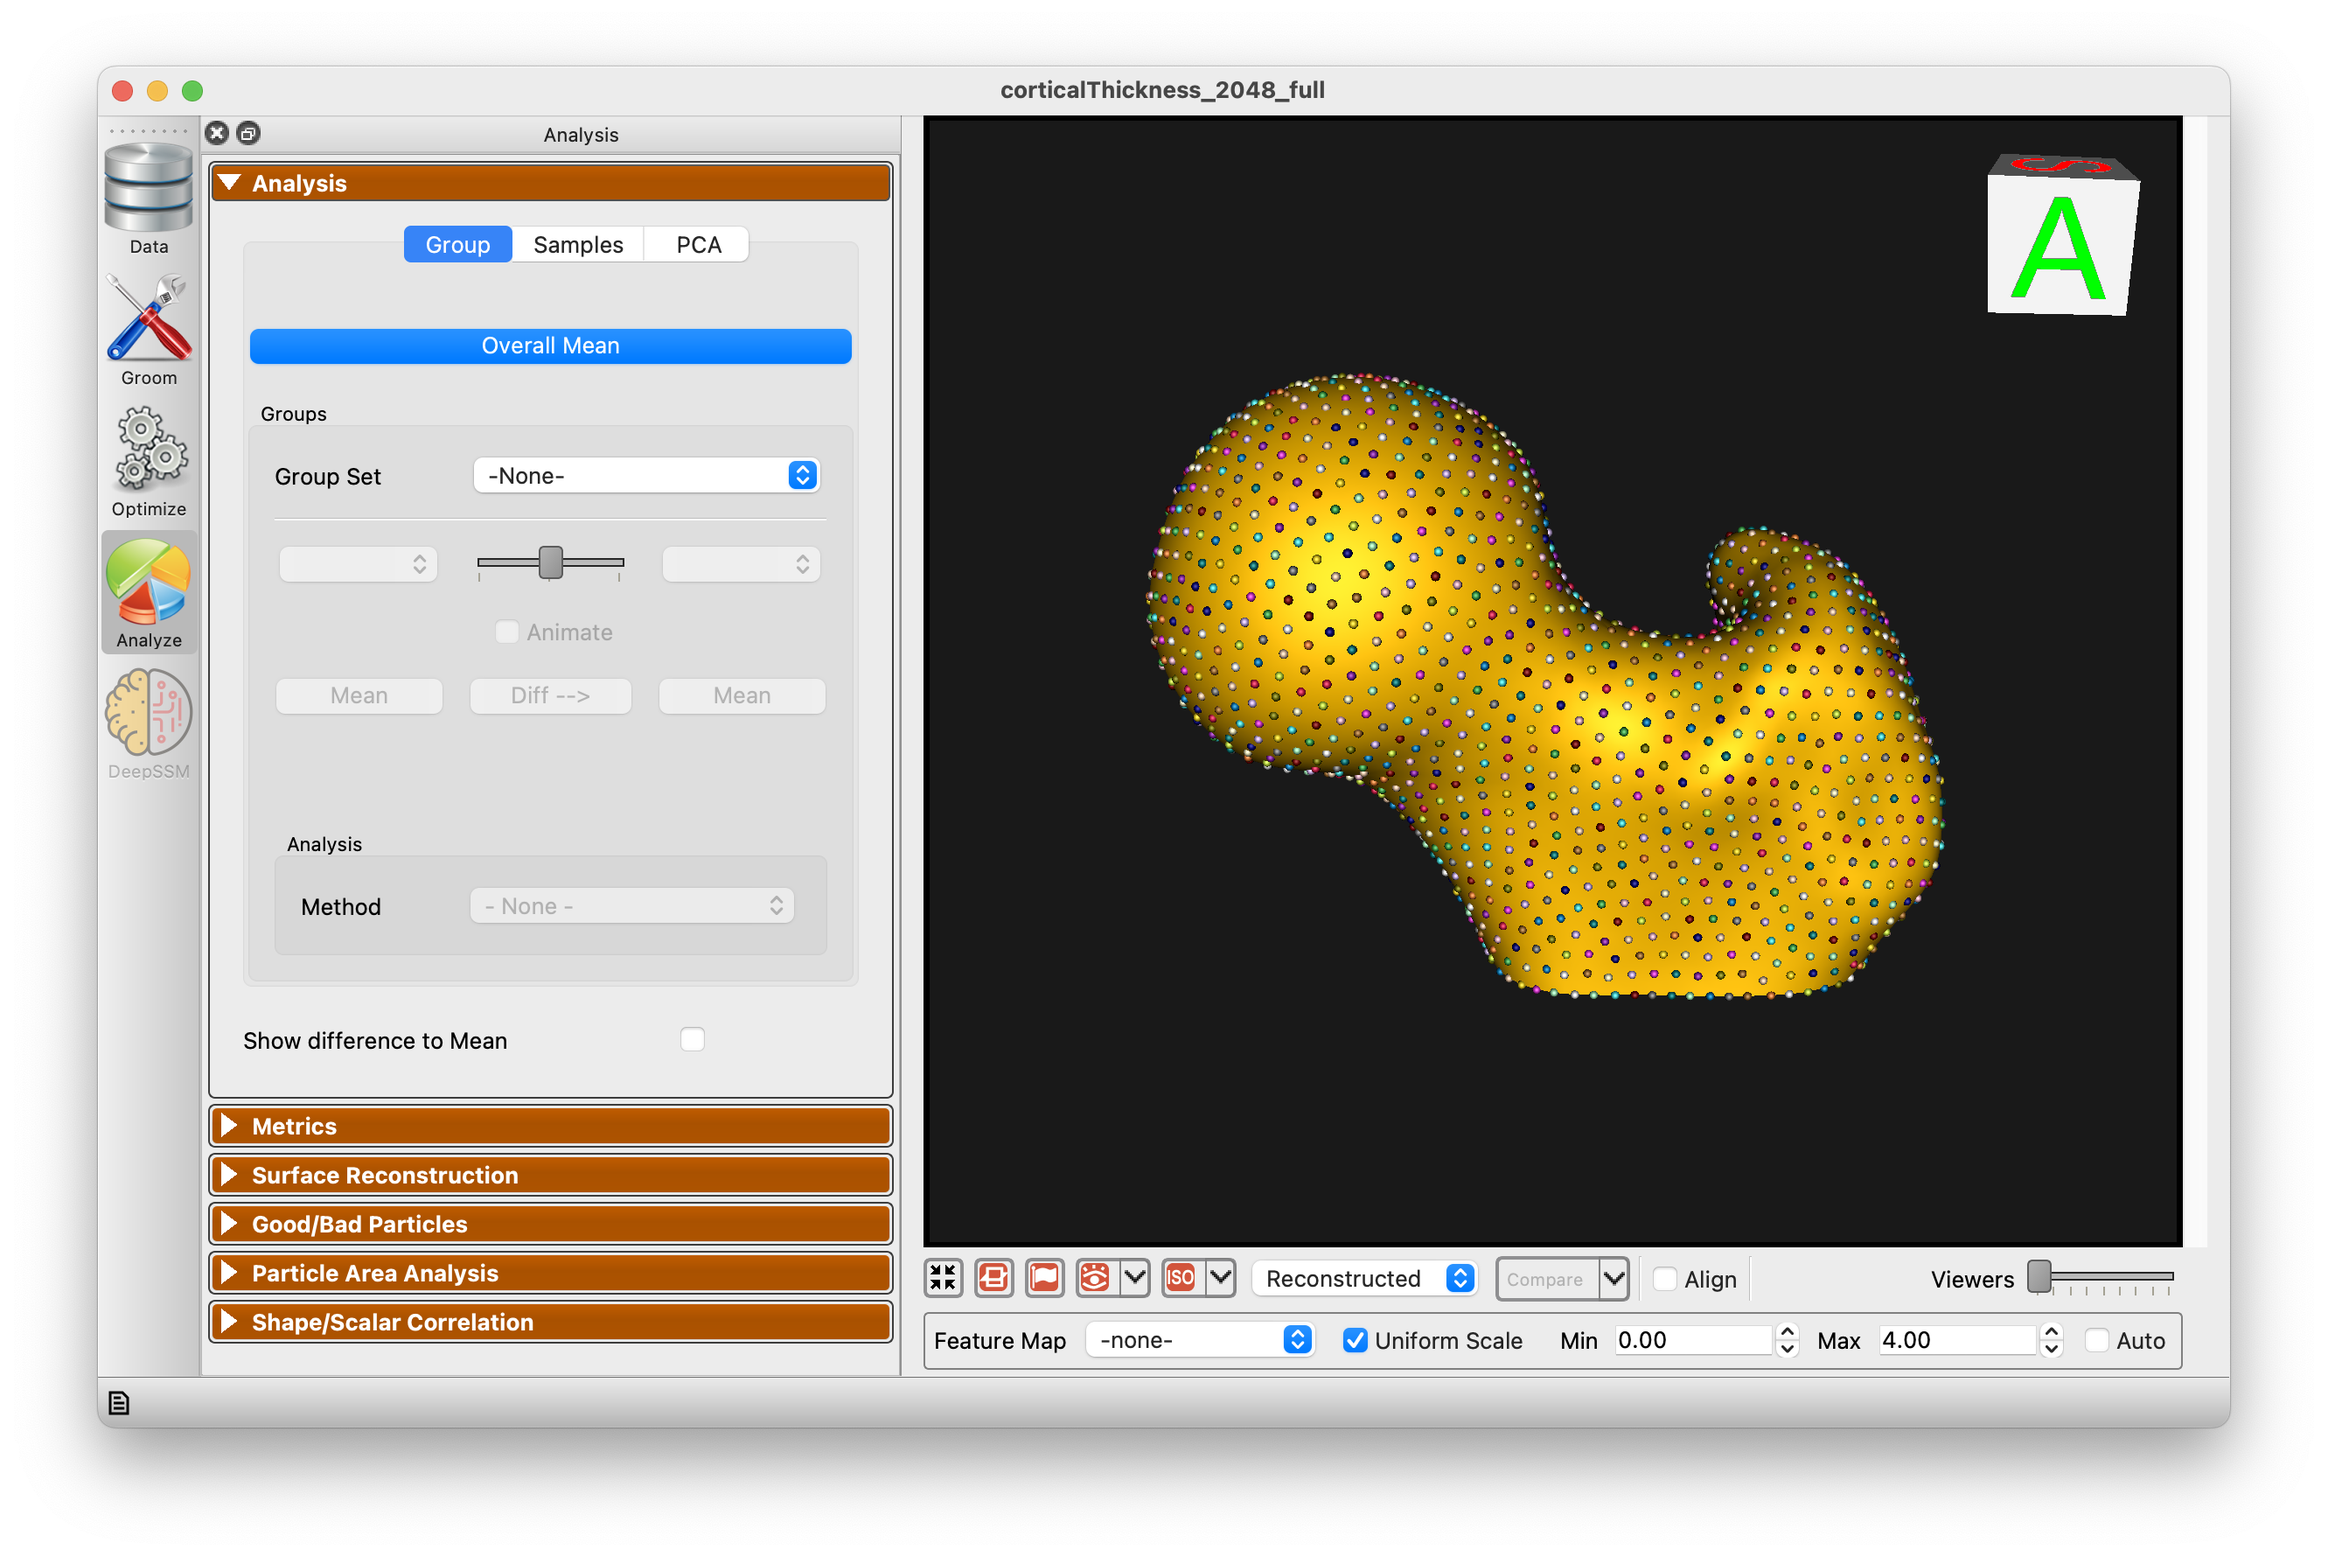
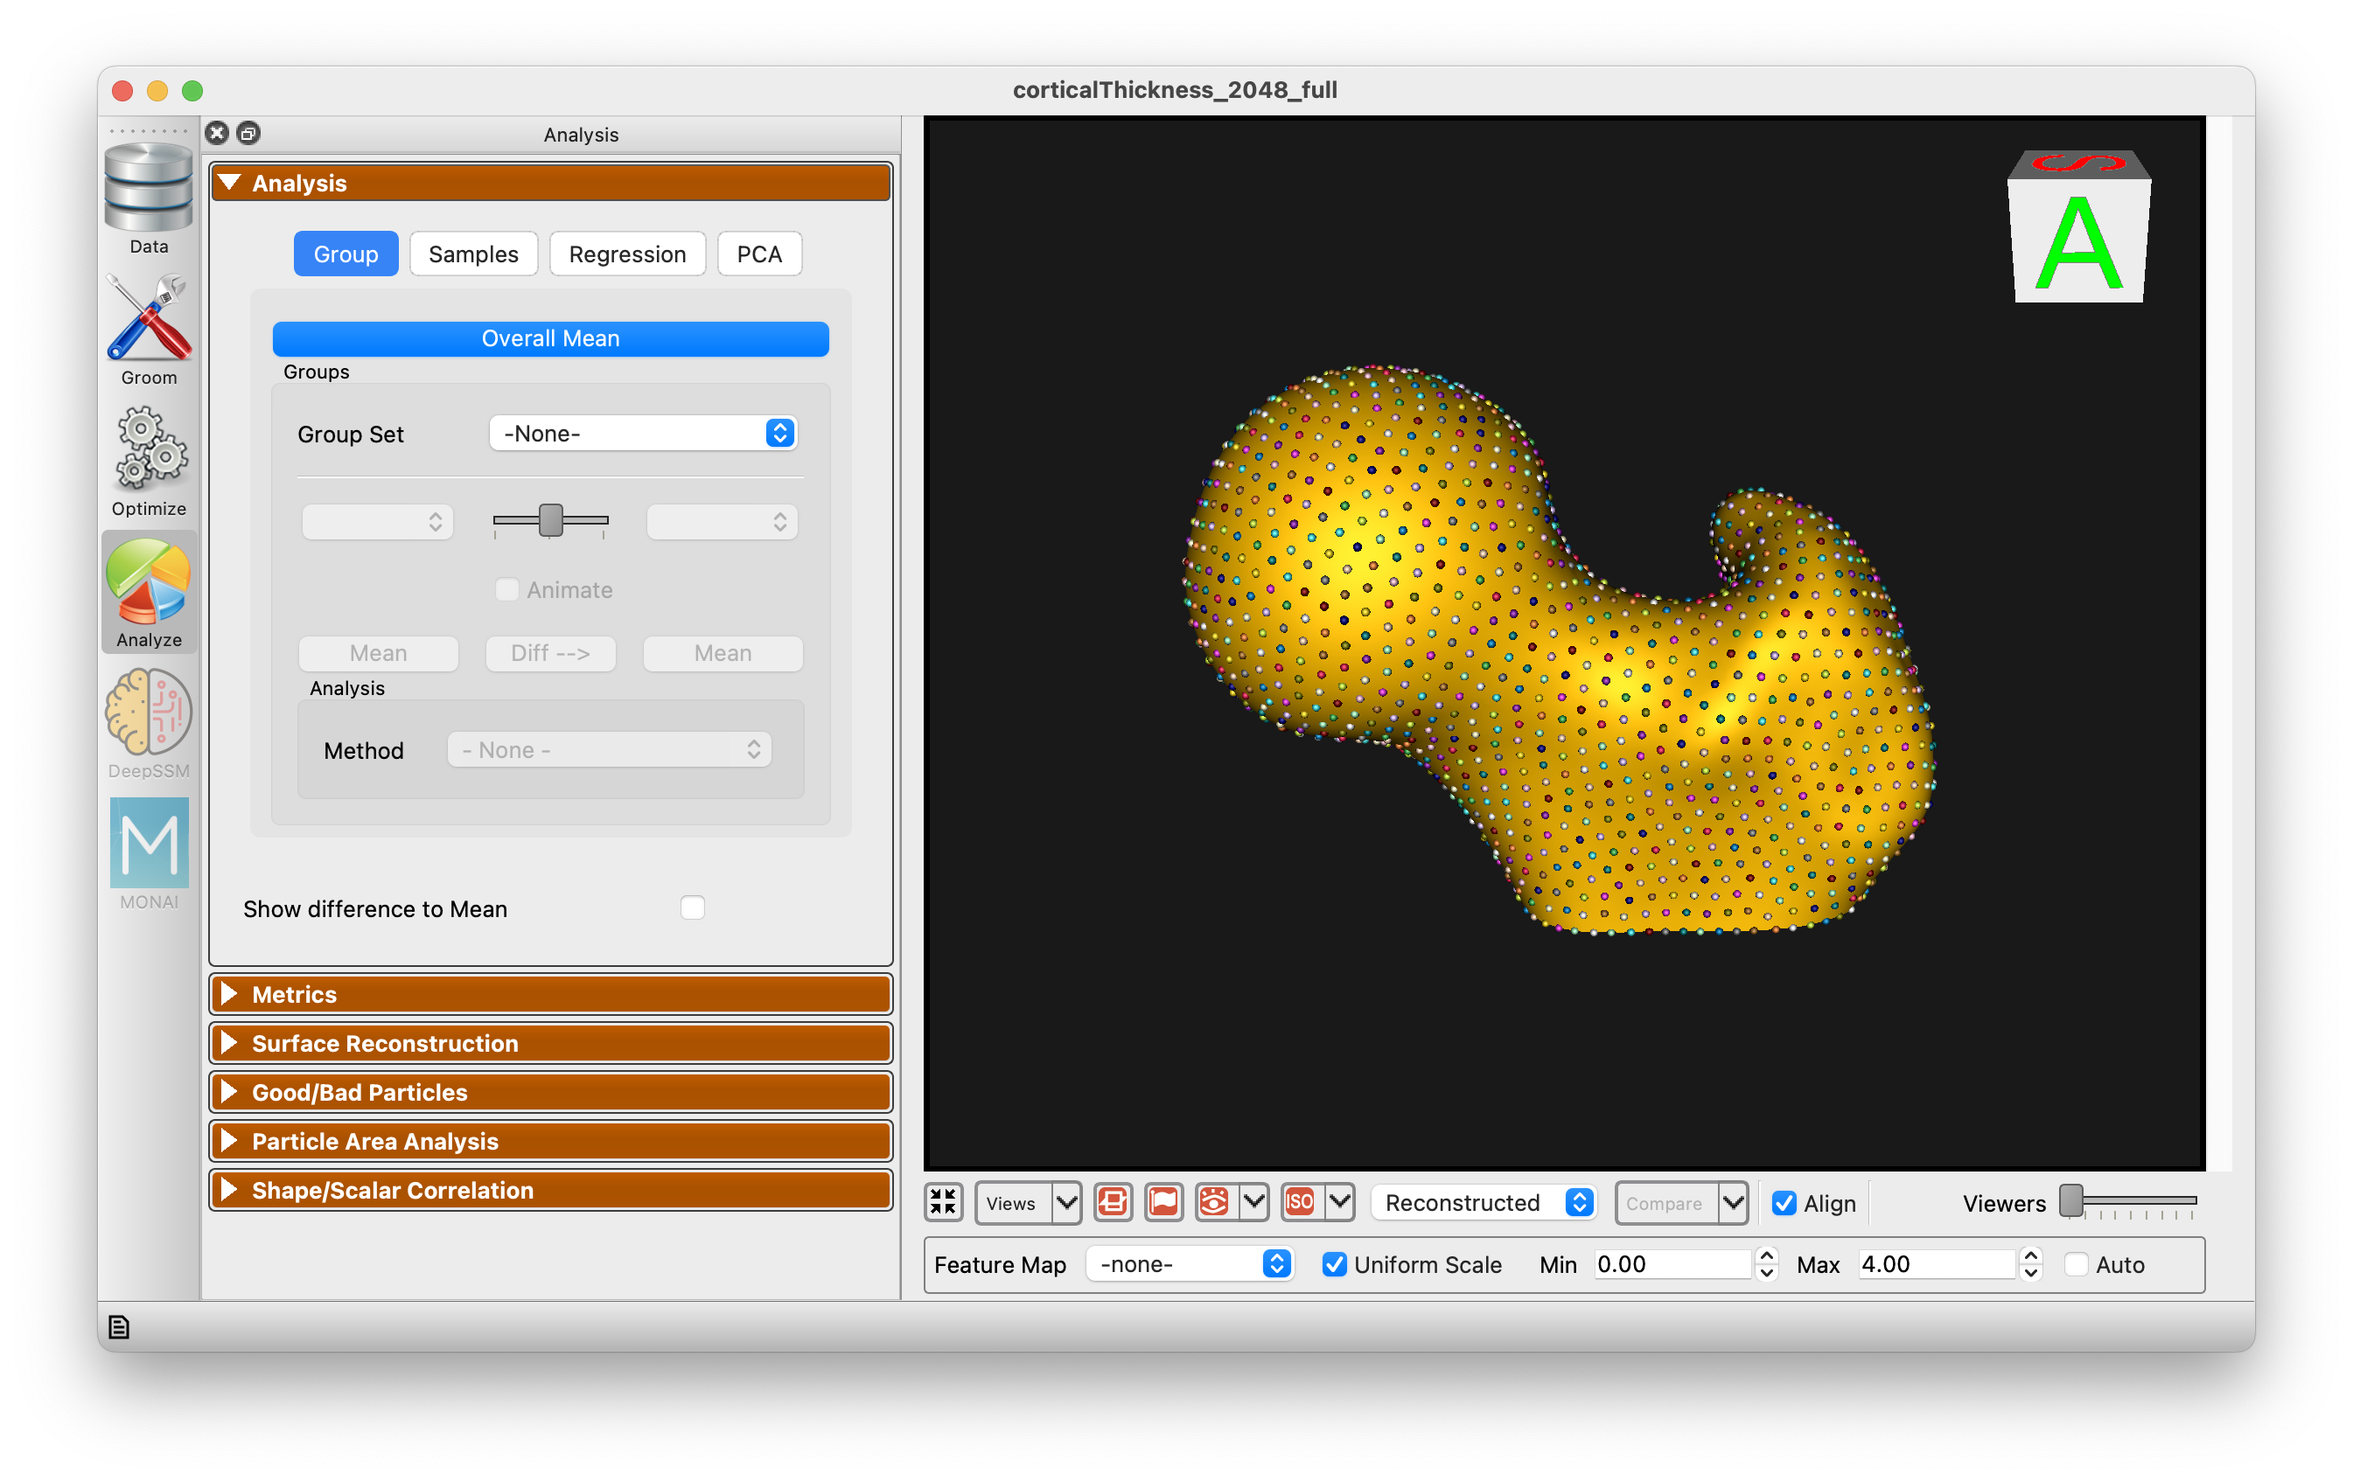
Update the 6.8 Studio screenshots
Retake the three shots that predated features they are meant to show:
the viewer controls (2022, no Views button), the export menu (missing
Export All Meshes) and the Analyze view panel (missing the Regression
tab).

Add the bounding box and scale bar capture and reference it from the
viewer docs.

diff --git a/docs/studio/studio-viewer.md b/docs/studio/studio-viewer.md
@@ -38,6 +38,8 @@ The isosurface visibility dropdown carries two display options for judging the p
 * **Show bounding box** — draws the bounding box of the displayed shape.
 * **Show scale bar** — overlays a labeled ruler in world coordinates, with a **Scale bar font** slider to size the labels.
 
+![Bounding box and scale bar](../img/studio/studio_viewer_bbox_scalebar.png)
+
 Both are preferences, so they persist across sessions.
 
 ## Glyph sizing
